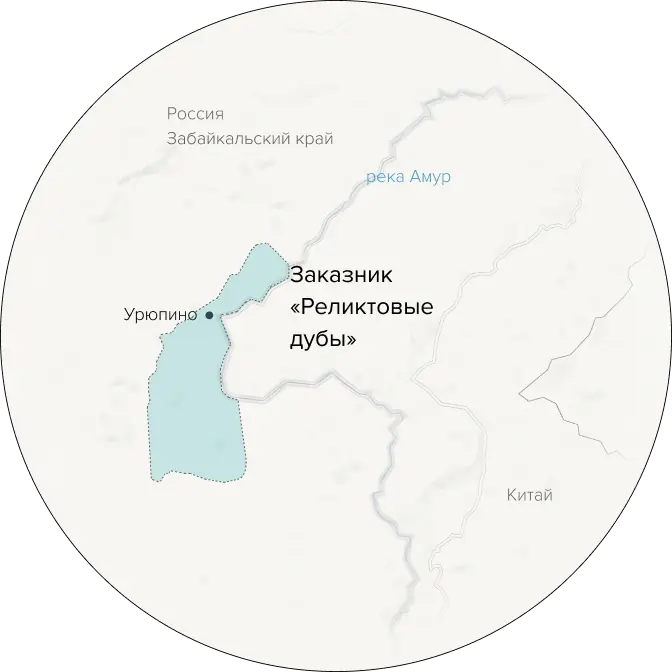
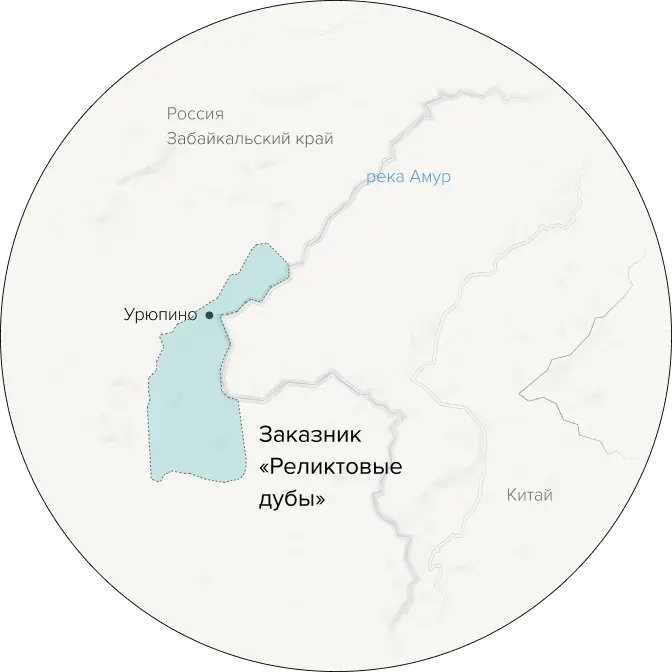
3

Changed region(s): [[0.4375, 0.375, 0.6562, 0.5312], [0.375, 0.6875, 0.5938, 0.75], [0.375, 0.625, 0.5312, 0.6562]]

diff --git a/src/pages/TreasuresPage.vue b/src/pages/TreasuresPage.vue
@@ -645,7 +645,7 @@
                     <BaseNumberBlock class="number-block-1" :textTop="'октябрь&nbsp;2011&nbsp;г.'"
                         :textBottom="'территория получила статус особо охраняемой'" />
                     <BaseNumberBlock class="number-block-2" :textTop="'30&nbsp;400&nbsp;га'" :textBottom="'площадь'" />
-                    <div class="map-circale"></div>
+                    <BasePhoto class="treasures__photo-block" :img="'img/treasures-img-5.jpg'" :img-mobile="'img/treasures-img-5-mobile.jpg'" />
                 </div>
 
                 <BaseTextBlock class="mb-100" :title="'Флора и фауна'">
@@ -1394,13 +1394,14 @@ export default {
                 }
             }
 
-            .map-circale {
-                top: 14.3rem;
-                left: 46.5rem;
+            .treasures__photo-block {
+                position: absolute;
+                top: 23.3rem;
+                left: 42.5rem;
 
                 @media (max-width: 768px) {
-                    top: 91.6rem;
-                    left: 36rem;
+                    top: 111.6rem;
+                    left: 24rem;
                 }
             }
         }
